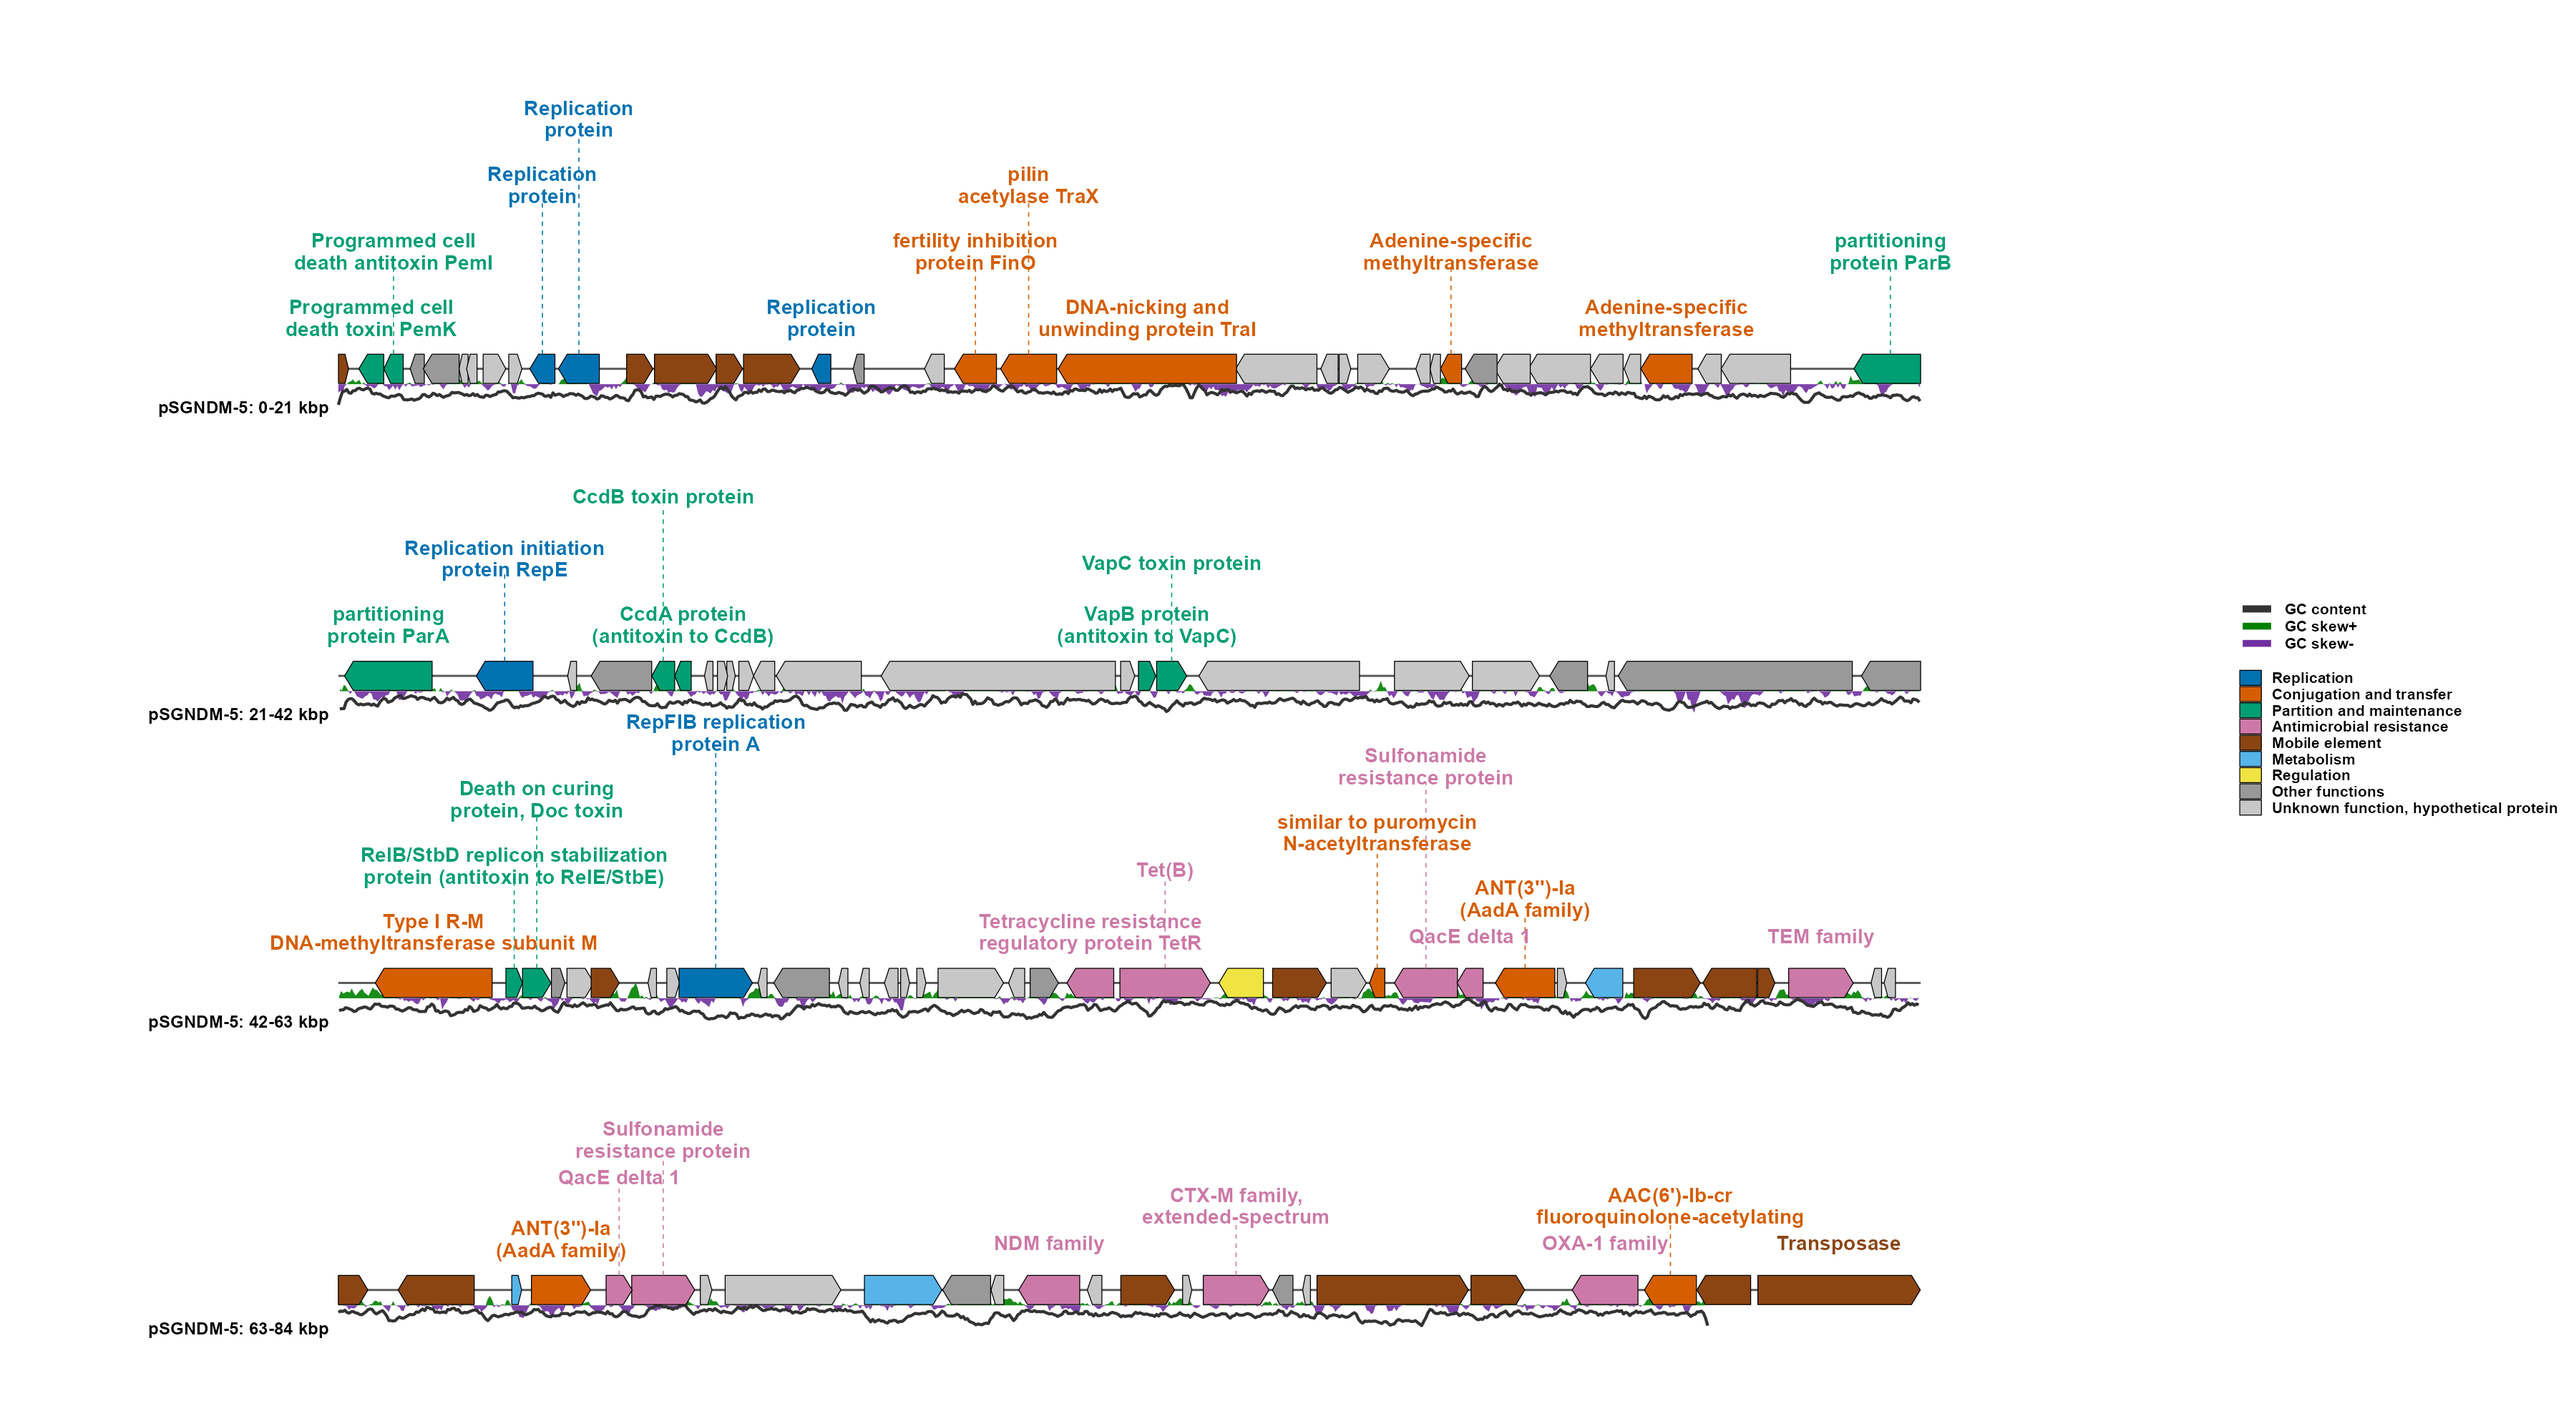
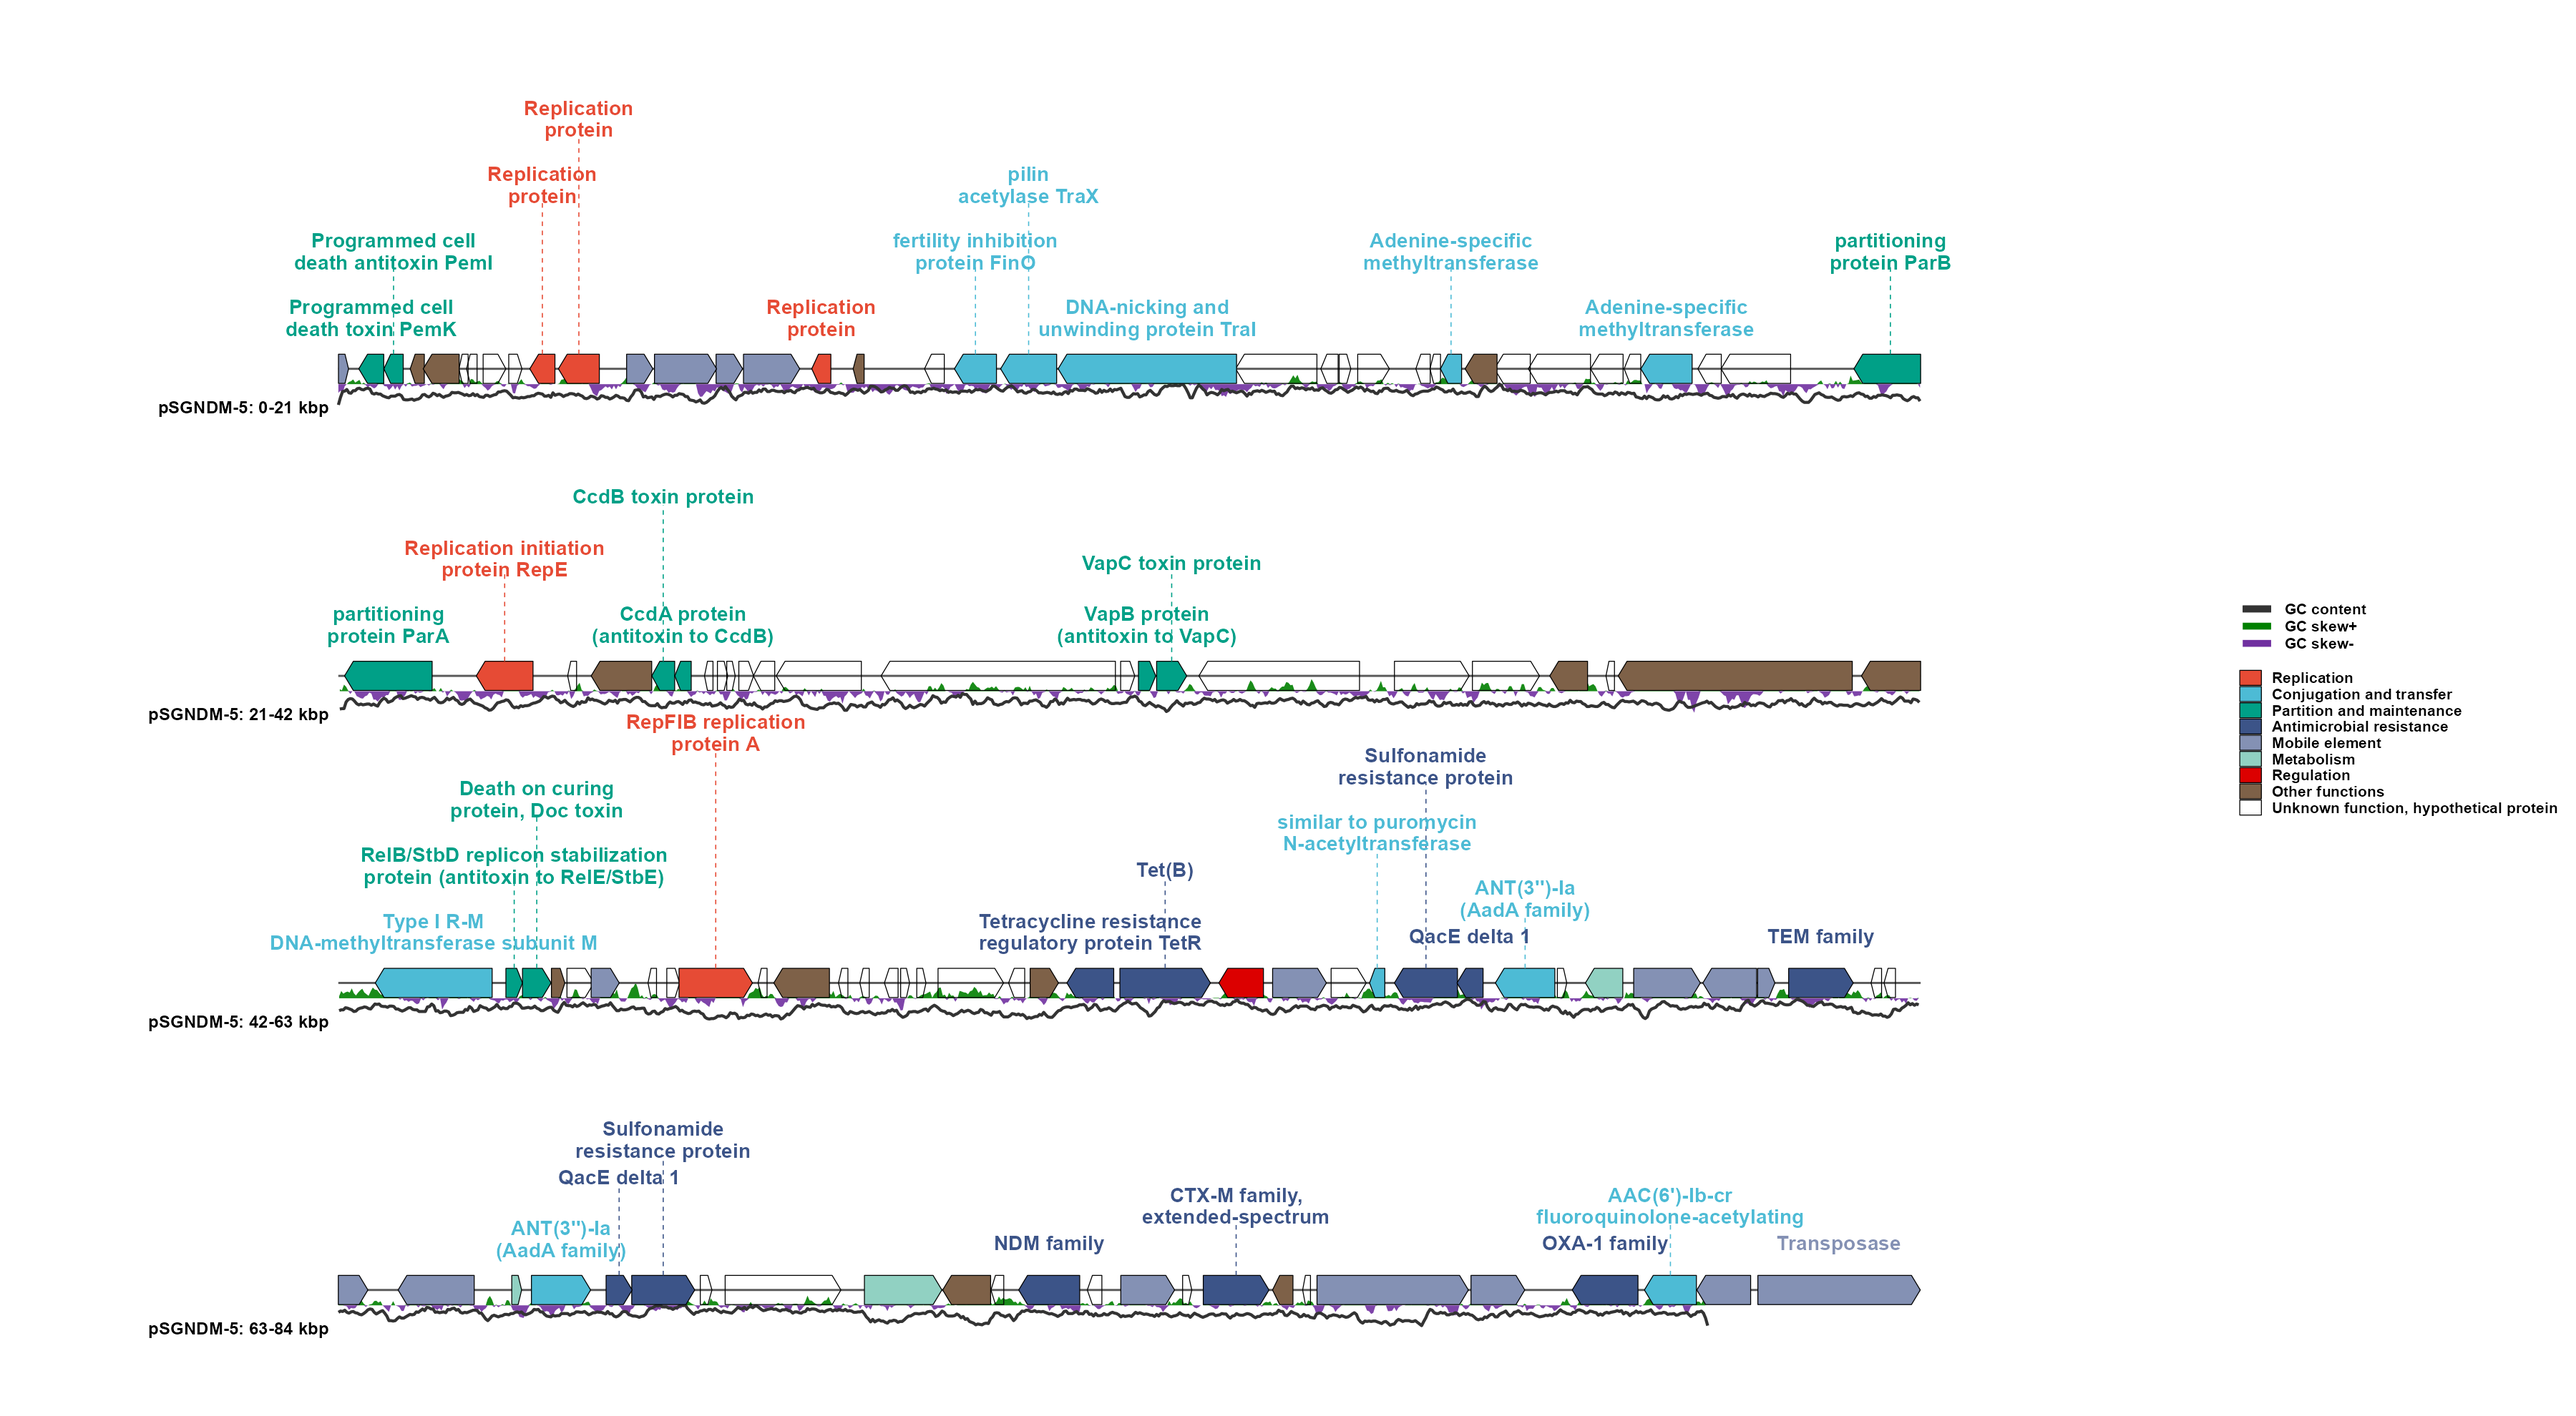
Make demo palettes explicit

diff --git a/README.md b/README.md
@@ -37,6 +37,10 @@ This public pSGNDM-5 reference plasmid is 84,257 bp long. The source is Zhong
 Y, Guo S, Schlundt J, Kwa AL. *JAC-Antimicrobial Resistance*. 2022;4(4):dlac071.
 [10.1093/jacamr/dlac071](https://doi.org/10.1093/jacamr/dlac071).
 
+The demo explicitly uses the `ggsci` `"npg"` palette. Replace `"npg"` with
+`"default"`, `"aaas"`, `"lancet"`, `"jco"`, `"ucscgb"`, `"d3"`, or `"igv"`
+to try another palette.
+
 ```r
 library(ggplasmidZY)
 
@@ -55,6 +59,7 @@ p_circular <- ggplasmid(
   fasta = fasta,                              # sequence for GC tracks
   name = "pSGNDM-5",                          # plot title/name
   layout = "circular",                        # circular map
+  palette = "npg",                            # choose the feature palette
   label_exclude_categories = "Other functions", # hide these labels only
   max_labels = 24,                             # maximum labels to draw
   label_text_colour = "category",             # color label text by category
@@ -79,6 +84,7 @@ p_linear <- ggplasmid(
   fasta = fasta,                              # sequence for GC tracks
   name = "pSGNDM-5",                          # plot title/name
   layout = "linear",                          # linear map
+  palette = "npg",                            # choose the feature palette
   plot_line_num = 4,                           # number of genome lines
   max_labels = 36,                             # maximum labels to draw
   linear_label_wrap_width = 18,                # approximate label width
@@ -196,8 +202,8 @@ Most plot geometry and text settings have defaults but can be tuned directly:
 
 ```r
 ggplasmid(
-  annotation = gbk_data,
-  fasta = fasta_data,
+  annotation = annotation,
+  fasta = fasta,
   name = "pSGNDM-5",
   palette = "npg", # ggsci palette; try "aaas", "lancet", "jco", "igv", etc.
   gene_highlight = gene_highlight(
@@ -223,17 +229,18 @@ ggplasmid(
 )
 ```
 
-`gene_highlight` changes only the categories you name, and the remaining
-categories keep the selected palette. You can also pass a data frame with
-`category` and `color` columns. Circular `*_radius` settings are distances from
-the center of the plot to that ring.
+`palette` chooses the overall category palette. `gene_highlight` changes only
+the categories you name, and the remaining categories keep the selected
+palette. Use a named vector or a data frame with `category` and `color` columns
+when you want to choose exact colors yourself. Circular `*_radius` settings
+are distances from the center of the plot to that ring.
 
 You can also add highlights after creating the plot:
 
 ```r
 p <- ggplasmid(
-  annotation = gbk_data,
-  fasta = fasta_data,
+  annotation = annotation,
+  fasta = fasta,
   name = "pSGNDM-5",
   palette = "npg"
 )
@@ -248,8 +255,8 @@ For a right-side legend, keep it vertical or use two compact columns:
 
 ```r
 ggplasmid(
-  annotation = gbk_data,
-  fasta = fasta_data,
+  annotation = annotation,
+  fasta = fasta,
   name = "pSGNDM-5",
   legend_position = "right",
   legend_columns = 2,
@@ -260,8 +267,8 @@ ggplasmid(
 `read_plasmid_fasta()` also includes a FASTA-formatted text column:
 
 ```r
-fasta_data$fasta[[1]]
-format_plasmid_fasta(fasta_data, width = 70)
+fasta$fasta[[1]]
+format_plasmid_fasta(fasta, width = 70)
 ```
 
 For table input, use `read_annotation_table()` when you want the table reader
